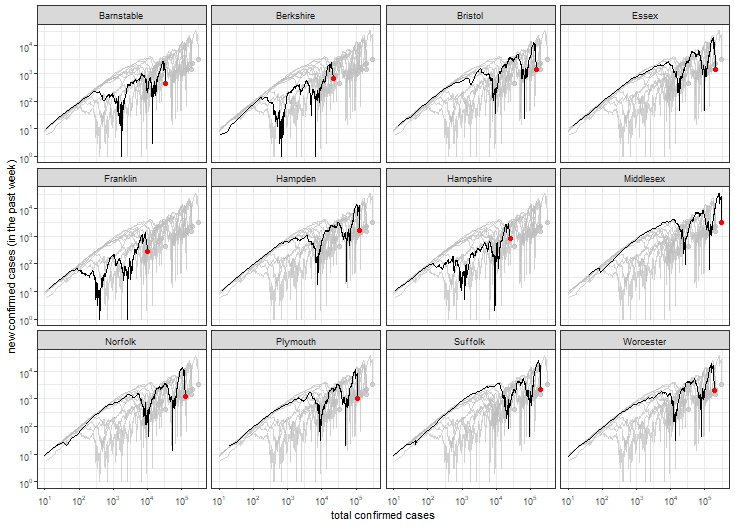
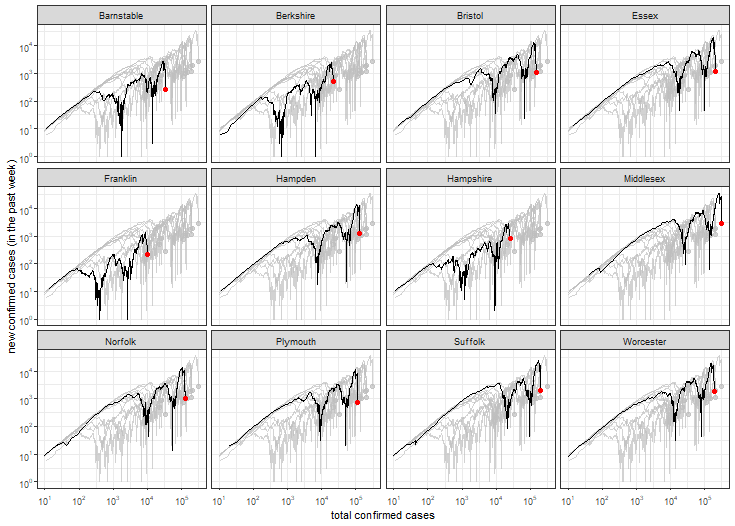
updated repo

diff --git a/README.md b/README.md
@@ -1,4 +1,4 @@
-Trends in COVID-19 for counties in the U.S. state of Massachusetts (updated on 2022-02-14)
+Trends in COVID-19 for counties in the U.S. state of Massachusetts (updated on 2022-02-15)
 ==========================================================================================
 
 ![trends in covid-19 cases by county in the U.S. state of
